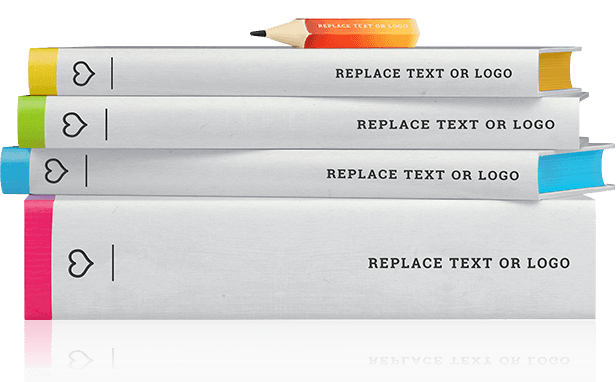
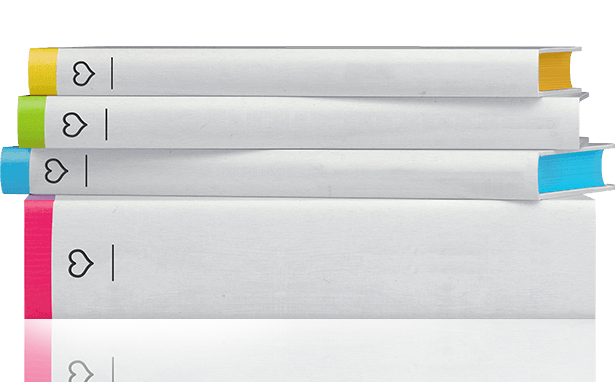
minor updates

diff --git a/includes/slider.php b/includes/slider.php
@@ -42,11 +42,11 @@ Main Slider
                     <img src="images/slider_image/coffee-cup.png" alt="">
                 </div>
 
-                <div class="sp-layer do-slider-img do-keyboard-img" data-position="bottomCenter" data-vertical="0" data-show-delay="5000" data-hide-delay="200" data-show-transition="up" data-hide-transition="down" data-width="23.84%">
+                <div class="sp-layer do-slider-img do-keyboard-img" data-position="bottomCenter" data-vertical="-20" data-show-delay="5000" data-hide-delay="200" data-show-transition="up" data-hide-transition="down" data-width="23.84%">
                     <img src="images/slider_image/keyboard.png" alt="">
                 </div>
 
-                <div class="sp-layer do-slider-img do-arrow-img" data-position="bottomCenter" data-vertical="150" data-show-delay="5500" data-hide-delay="200" data-show-transition="up" data-hide-transition="down" data-width="36">
+                <div class="sp-layer do-slider-img do-arrow-img" data-position="bottomCenter" data-vertical="170" data-show-delay="5500" data-hide-delay="200" data-show-transition="up" data-hide-transition="down" data-width="36">
                     <a data-scroll href="index.php#about-us">
                         <img src="images/slider_image/arrow.png" alt="">
                     </a>
@@ -57,7 +57,7 @@ Main Slider
                     data-position="center" data-vertical="0" data-show-transition="left" data-hide-transition="up" data-show-delay="1000" data-hide-delay="200"><img class="logo" src="images/Logo_338.png" alt="THREE38inc"></h1>
 
                 <p class="sp-layer do-slider-text-small"
-                   data-position="center" data-vertical="90" data-show-delay="1500" data-hide-delay="200" data-show-transition="down" data-hide-transition="down" style="">
+                   data-position="center" data-vertical="120" data-show-delay="1500" data-hide-delay="200" data-show-transition="down" data-hide-transition="down" >
                     THINK FAST , WORK TOGETHER , HAVE FUN 
                 </p>
             </div>

diff --git a/includes/contact-page-content.php b/includes/contact-page-content.php
@@ -10,7 +10,7 @@
 
                 <div class="do-breadcumb">
                     <ul>
-                        <li><a href="contact_us.html#">HOME</a></li>
+                        <li><a href="index.php">HOME</a></li>
                         <li><span>CONTACT</span></li>
                     </ul>
                 </div>
@@ -60,18 +60,19 @@
                         <ul>
                             <li class="do-address">#323, Defence Avenue<br> K Narayanpura,<br> Bengaluru - 77</li>
                             <li class="do-phone">[ +91 ] 8904330374</li>
+                            <li class="do-phone" style="margin-top:-7px">[ +91 ] 8050611198</li>
                             <li class="do-email">hello@three38inc.com</li>
                         </ul>
 
 
                         <div class="do-coantact-social">
-                            <a href="https://www.facebook.com/dropmygift/" class="do-facebook" target="_blank">
+                            <a href="https://www.facebook.com/THREE38/" class="do-facebook" target="_blank">
                                 <span>
                         <i class="ti-facebook"></i>
                     </span> 
                             </a>
 
-                            <a href="https://plus.google.com/+Dropmygift" target="_blank" class="do-google-plus">
+                            <a href="https://plus.google.com/109113945477119760612" target="_blank" class="do-google-plus">
                                 <span>
                         <i class="ti-google"></i>
                     </span> 
@@ -85,7 +86,7 @@
 
 
 
-                            <a href="index.html#" class="do-behance" target="_blank">
+                            <a href="https://www.behance.net/three38inc" class="do-behance" target="_blank">
                                 <span>
                         <i class="fa fa-behance"></i>
                     </span> 

diff --git a/extras/about_us.php b/extras/about_us.php
@@ -512,7 +512,7 @@
                     drIbble
                 </a>
             
-                <a href="about_us.html#" class="do-behance">
+                <a href="https://www.behance.net/three38inc" class="do-behance">
                     <span>
                         <i class="fa fa-behance"></i>
                     </span>

diff --git a/includes/social-link.php b/includes/social-link.php
@@ -24,7 +24,7 @@
             
 
             
-                <a href="index.html#" class="do-behance" target="_blank">
+                <a href="https://www.behance.net/three38inc" class="do-behance" target="_blank">
                     <span>
                         <i class="fa fa-behance"></i>
                     </span>
